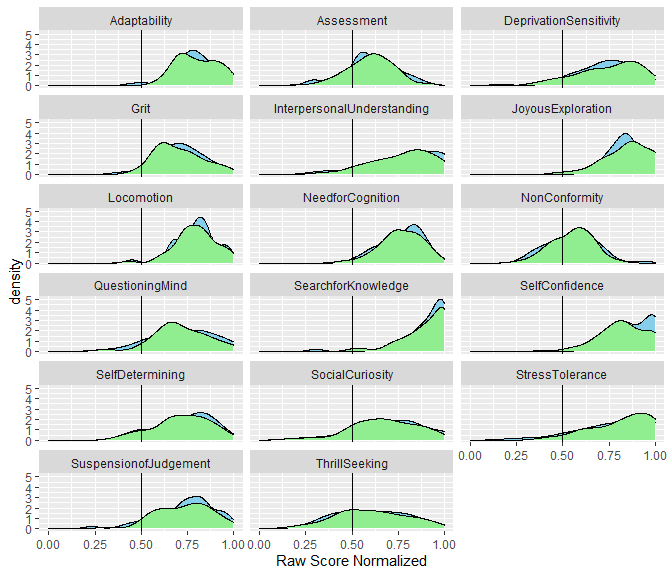
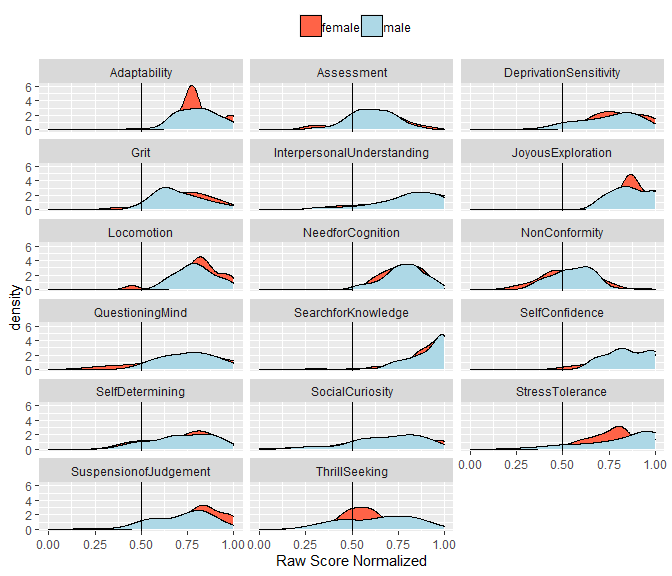
7/8 2020

diff --git a/CATTCon_Personality_Dashboard.md b/CATTCon_Personality_Dashboard.md
@@ -48,6 +48,9 @@ Northrop Grumman CATTConV Survey Results
 
 ![](CATTCon_Personality_Dashboard_files/figure-gfm/unnamed-chunk-5-1.png)<!-- -->
 
+    ##  female    male unknown    NA's 
+    ##     324    1008     504    1836
+
 ##### The description of each personality dimension is at the bottom of this page. *NonConformity* appears to be least important in this sample and has limited variability around the center of this scale.
 
 ## Personality Traits and Experience Correlations
@@ -87,7 +90,7 @@ Northrop Grumman CATTConV Survey Results
 
 ## K Means Clustering (All Personality Dimensions)
 
-##### Three personality profiles (clusters) were developed from the respondent data. Highlighted in green are traits with a relatively high cluster average. In blue are traits with a relatively low cluster average.
+##### Three personality profiles (clusters) were developed from the respondent trait scores. Highlighted in green are traits with a relatively high cluster average. In blue are traits with a relatively low cluster average.
 
 ![](CATTCon_Personality_Dashboard_files/figure-gfm/unnamed-chunk-8-1.png)<!-- -->
 
@@ -95,13 +98,25 @@ Northrop Grumman CATTConV Survey Results
 
 ##### *Cluster 1* (27%) and *Cluster 2* (30%) , consists of respondents with a specific combination of lower scores across several dimensions.
 
-##### Select personality traits displayed greater variation among the three clusters of Northrop Grumman professionals. Stress Tolerance and Social Curiosity, for example, seem to play a large role in determining the cluster assignments. Traits such as Search for Knowledge, Questioning Mind, Locomotion, Joyous Exploration and Grit appear to have less importance in cluster assignment.
-
 ![](CATTCon_Personality_Dashboard_files/figure-gfm/unnamed-chunk-9-1.png)<!-- -->
+
+## Latent Profile Analysis (All Item level data)
+
+##### Two personality profiles (clusters) were developed using latent profile analysis (LPA) using the mclust pacakge in R. A comparison of probabilisitc models demonstrated that 2 clusters best fit the data. . Highlighted in green are traits with a relatively high cluster average. In blue are traits with a relatively low cluster average.
+
+![](CATTCon_Personality_Dashboard_files/figure-gfm/unnamed-chunk-10-1.png)<!-- -->
+
+##### The largest cluster, *Cluster 1* (57%), reports average to high scores across all the dimensions.
+
+##### *Cluster 2* (43%) consists of respondents with a specific combination of lower scores across several dimensions.
+
+##### Select personality traits displayed greater variation among two clusters of Northrop Grumman professionals. Stress Tolerance and Need for Cognition, for example, seem to play a large role in determining the cluster assignments. Traits such as Assessment, Social Curiosity, Deprivation Sensitivity, Thrill Seeking, Non-Conformity and Suspension of Judgement appear to have less impact in cluster assignment.
+
+![](CATTCon_Personality_Dashboard_files/figure-gfm/unnamed-chunk-11-1.png)<!-- -->
 
 ## Correlation of Dimensions used in Questionnaire
 
-![](CATTCon_Personality_Dashboard_files/figure-gfm/unnamed-chunk-10-1.png)<!-- -->
+![](CATTCon_Personality_Dashboard_files/figure-gfm/unnamed-chunk-12-1.png)<!-- -->
 
 ##### Correlation coefficients are displayed and shaded. Green boxes are drawn from the results of hierarchical clustering of these personality dimensions. For example, respondent data suggests “Search for Knowledge” and “Joyous Exploration” seemingly measure the same trait.
 
